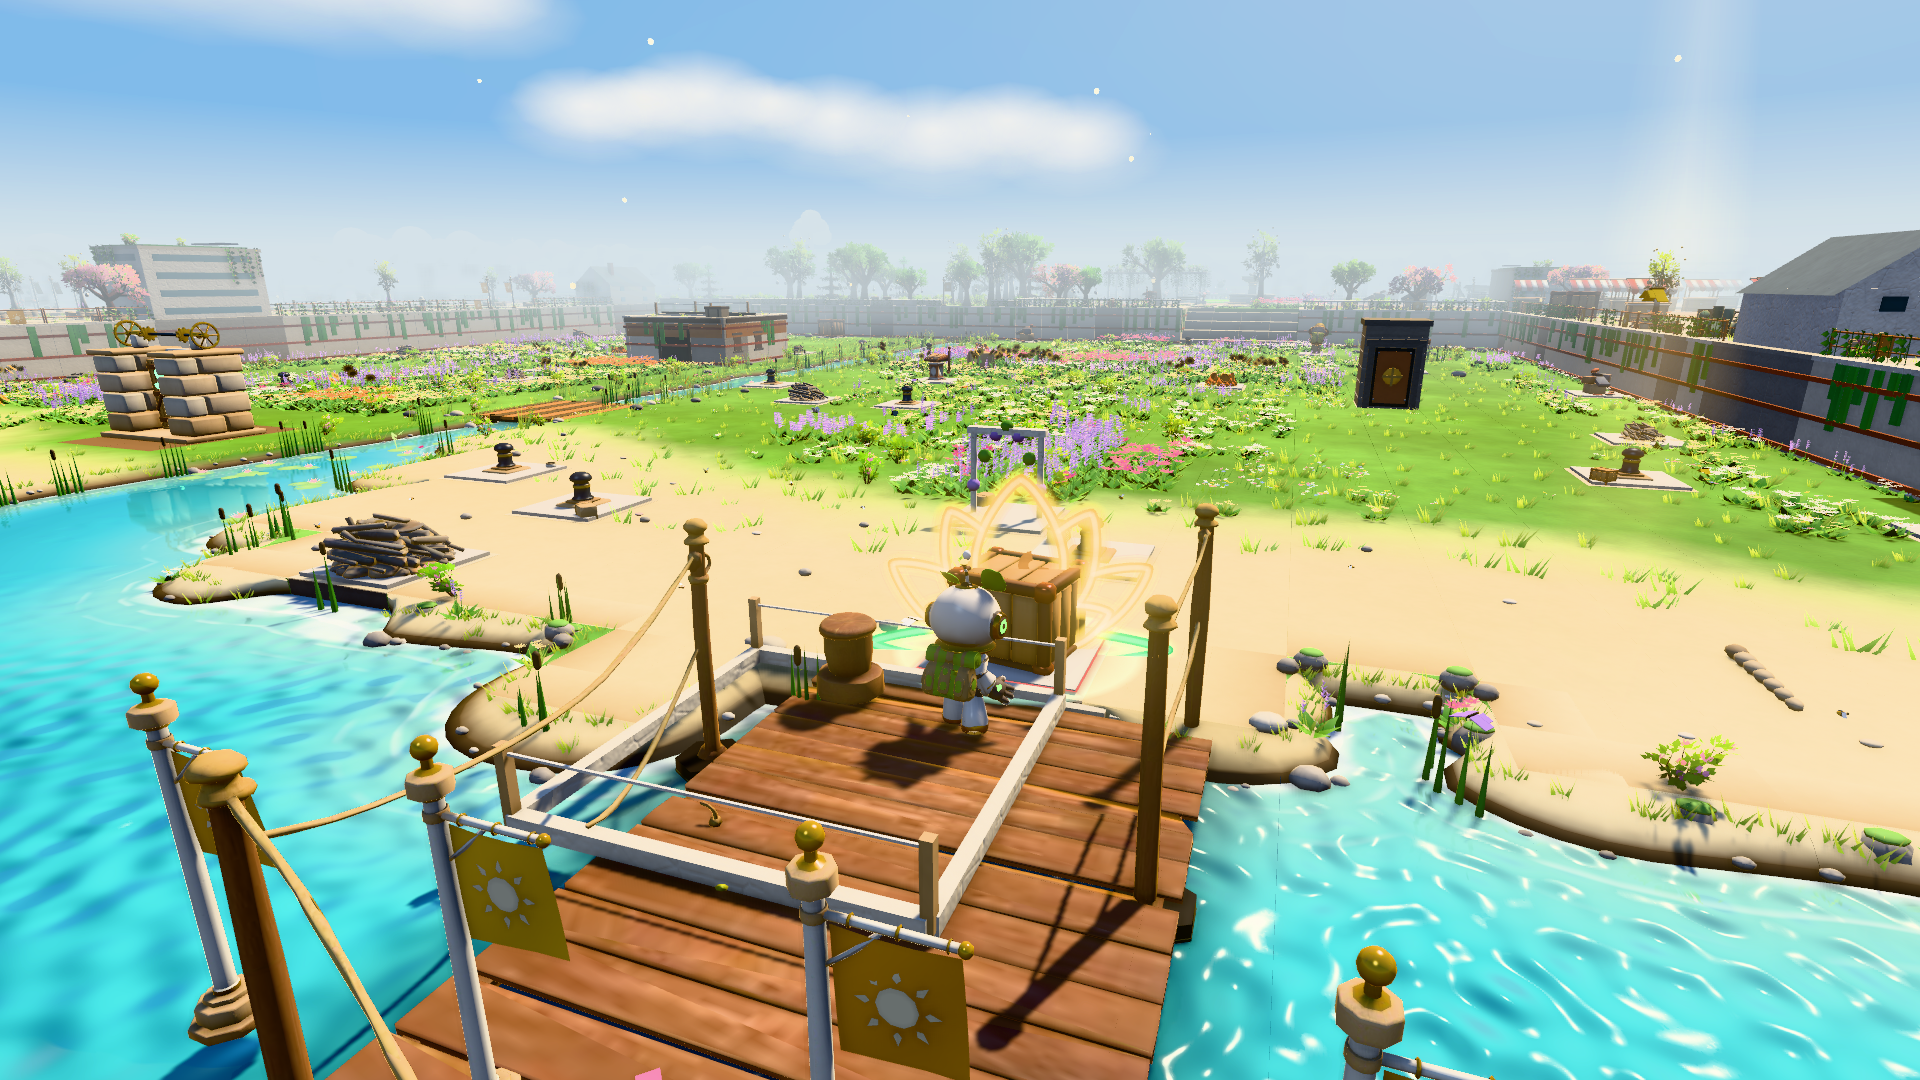
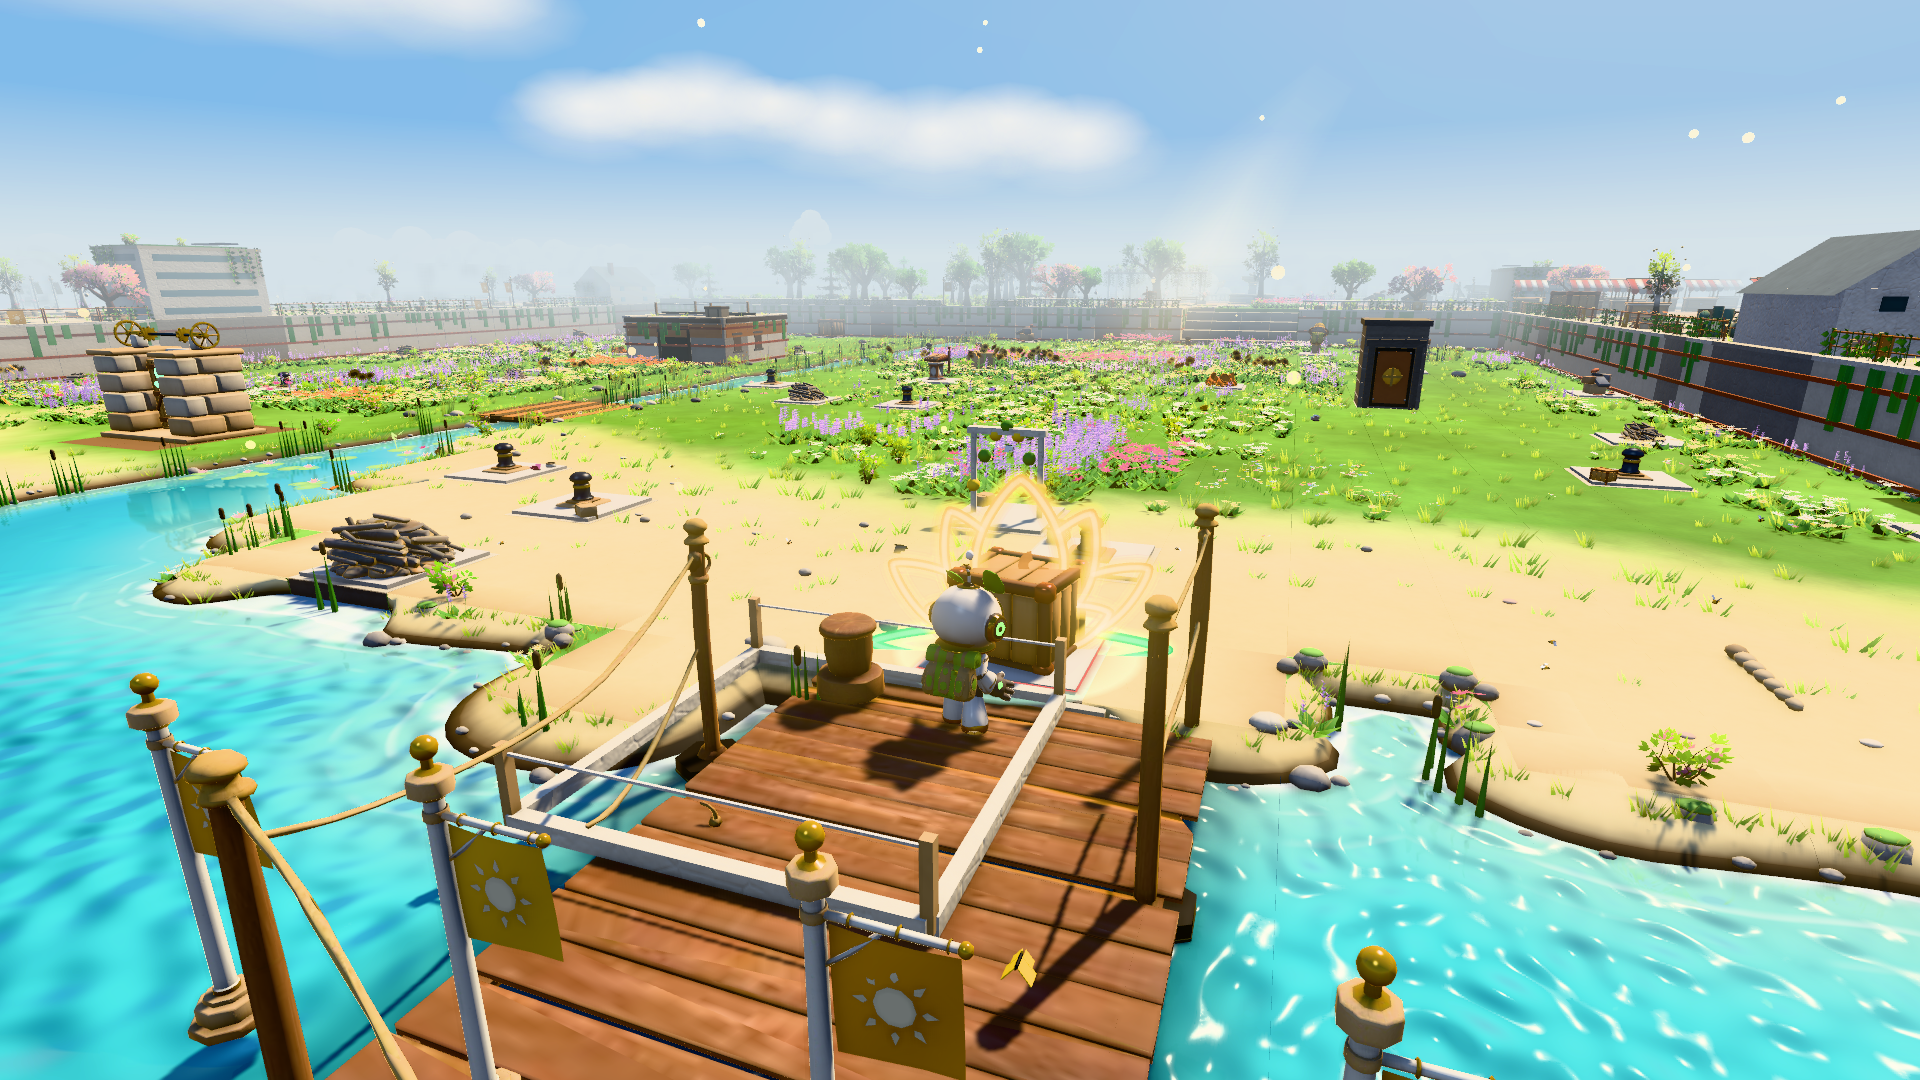
P7-E28 final: beach contrast shots (third early/mid/late) and report
Claude-Session: https://claude.ai/code/session_01SpBr3Mpaemtv8rHZL4rW1a

diff --git a/docs/review/p7/e28-report.md b/docs/review/p7/e28-report.md
@@ -38,6 +38,14 @@ Branch `p7-e28-vegetation` (on top of final P7-E27, `p7-e27-lighting` @ 86d8aa40
 - **Ragged restored edge**: `Surfaces.lawnFringe` spills turf over same-level dead natural ground as a wavy strip
   (world-noise outline, continuous across tiles) with young tufts, instead of tile squares.
 
+- **Restored vs dead beach** (final lead review): restored beach is a warmer, lighter cream-gold with sparse low dune
+  grass across the strip (thicker toward the lawn) and the odd sea thrift near the inner edge. **Dead sand was adjusted
+  (E27-final, with the lead's OK)**: `GroundTex.paintSand` desaturated toward a dusty grey-beige with drab wrack lines
+  and grit specks, and `PALETTE.ground.painted.sand` (its average) `#e9dfc2` → `#d8d0bd`; `sunlit-look` still passes.
+  `early-day-third` (all dead) still reads as a beach, dull and abandoned. Third-person early/mid/late re-shot for this
+  (draw calls 1039 / 1090 / 1705; clip ≤ 0.05%). Extra litter/cracks on dead tiles were not added: that dressing is
+  in ChunkRenderer's dead-tile branch, outside this epic's functions.
+
 ## Metrics (day)
 
 | Shot | Draw calls | Clipped % | Mean sat |
@@ -57,10 +65,6 @@ Draw calls within the +25% budget everywhere (largest +2%; the mid shore camera 
 `tsc --noEmit` clean. Palette lint passes (new swatches `reed`, `reedHead`, `wetStone`).
 
 ## What still looks wrong
-
-- Restored beach vs dead sand: the clean sand is warmer and tidier and the wet band and dune grass help, but at a
-  glance the two sands are closer than lawn vs dead ground. If it needs more, the next lever is a little more dune
-  grass or a lighter, cleaner tone (the dead painted sand belongs to E27's calibration).
 
 - From the iso camera beds read only as faint speckle: the zones work at player height, but from far up the restored
   ground is mostly flat lawn. Trees (P7-E29) are what should break it up there.
